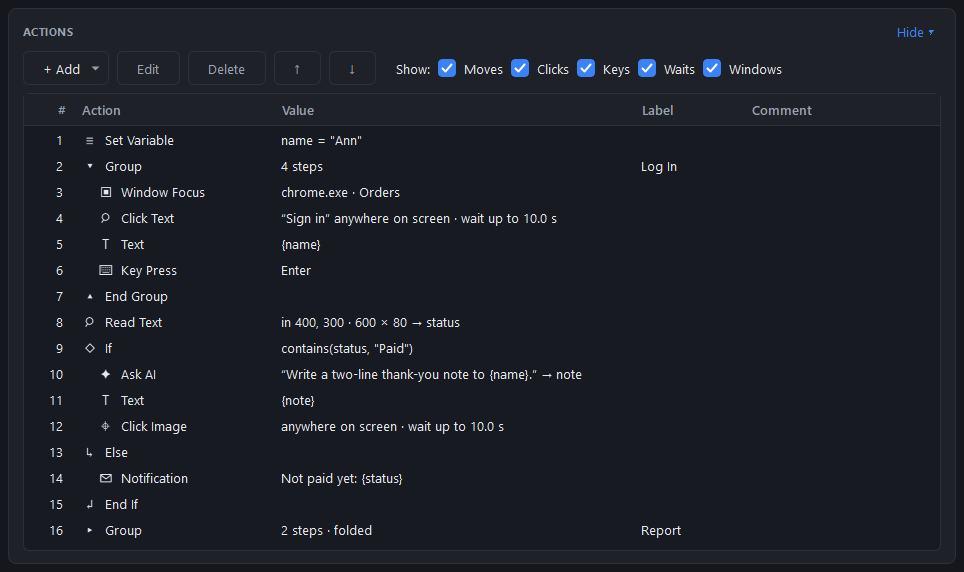
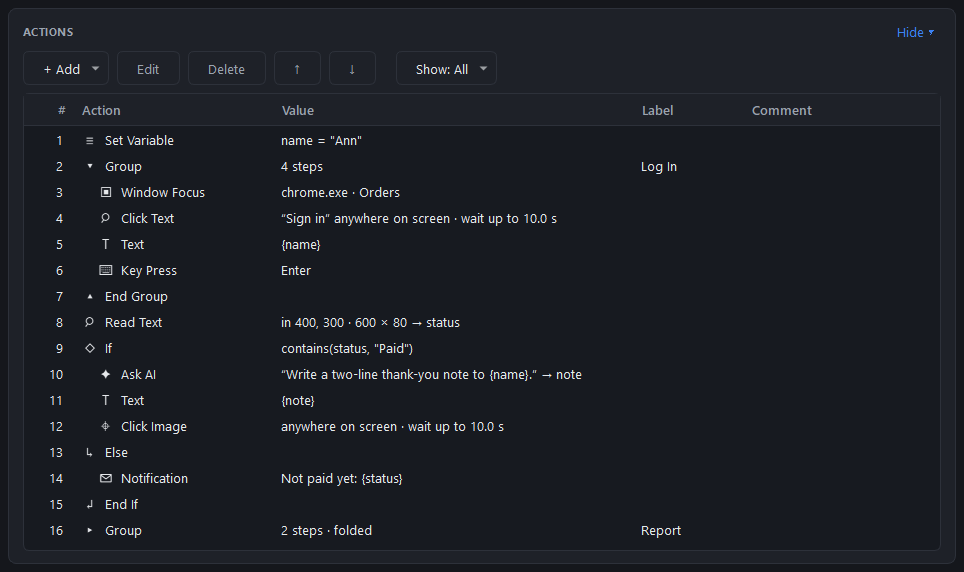
Show: one drop-down instead of five check boxes, so the window can be narrower (#19)
The menu stays open while kinds of steps are ticked on and off, and has Show All. The button says what is shown (Show: All, Show: Clicks, Keys, Show: 3 of 5, Show: None). The window's smallest width goes from 1163 to 877 px in English and from 1328 to 1011 px in Spanish. README: the Show menu picture and the refreshed list pictures.

Changed region(s): [[0.4046, 0.0892, 0.8091, 0.1486]]

diff --git a/src/app/MainWindow.cpp b/src/app/MainWindow.cpp
@@ -33,8 +33,11 @@
 #include <QJsonDocument>
 #include <QJsonObject>
 #include <QKeySequenceEdit>
+#include <QKeyEvent>
 #include <QLabel>
+#include <QMenu>
 #include <QMenuBar>
+#include <QMouseEvent>
 #include <QMessageBox>
 #include <QMimeData>
 #include <QNetworkAccessManager>
@@ -141,6 +144,29 @@ QToolButton* toolButton(const QString& text, const QString& tip)
     b->setToolTip(tip);
     return b;
 }
+
+// A menu of check marks that stays open when one is clicked (or toggled with Space or Enter), so several can be
+// changed in one go. Other items close it as usual.
+class StayOpenMenu : public QMenu
+{
+public:
+    using QMenu::QMenu;
+
+protected:
+    void mouseReleaseEvent(QMouseEvent* e) override
+    {
+        QAction* a = actionAt(e->position().toPoint());
+        if (a && a->isCheckable() && a->isEnabled()) { a->trigger(); return; }
+        QMenu::mouseReleaseEvent(e);
+    }
+    void keyPressEvent(QKeyEvent* e) override
+    {
+        QAction* a = activeAction();
+        const bool toggleKey = e->key() == Qt::Key_Space || e->key() == Qt::Key_Return || e->key() == Qt::Key_Enter;
+        if (toggleKey && a && a->isCheckable() && a->isEnabled()) { a->trigger(); return; }
+        QMenu::keyPressEvent(e);
+    }
+};
 
 QLabel* muted(const QString& text)
 {
@@ -864,7 +890,7 @@ void MainWindow::buildUi()
         {m_mergeTyping, "mergeTyping"}, {m_shortestPause, "shortestPause"}, {m_hideRec, "hideRec"},
         {m_hkRecord, "hkRecord"}, {m_hkPlay, "hkPlay"}, {m_hkStop, "hkStop"}, {m_hkError, "hkError"},
         {m_hkNewRec, "hkNewRec"}, {m_hkPlayFrom, "hkPlayFrom"}, {m_hkPlaySel, "hkPlaySel"}, {m_hkCapture, "hkCapture"},
-        {m_table, "table"}, {m_log, "log"}, {m_pill, "pill"}, {m_fileLabel, "fileLabel"}};
+        {m_table, "table"}, {m_showBtn, "showFilter"}, {m_log, "log"}, {m_pill, "pill"}, {m_fileLabel, "fileLabel"}};
     for (const auto& [o, id] : ids) o->setProperty("testId", QString::fromLatin1(id));
     for (auto it = m_filters.cbegin(); it != m_filters.cend(); ++it) it.value()->setProperty("testId", QStringLiteral("filter_") + it.key());
     for (auto it = m_cards.cbegin(); it != m_cards.cend(); ++it) it.value().toggle->setProperty("testId", QStringLiteral("fold_") + it.key());
@@ -1186,20 +1212,32 @@ QWidget* MainWindow::buildActionsCard()
     m_downBtn = toolButton(QStringLiteral("↓"), T("Move down (Alt+Down)"));
     for (QToolButton* t : {m_addBtn, m_editBtn, m_deleteBtn, m_upBtn, m_downBtn}) bar->addWidget(t);
     bar->addSpacing(12);
-    bar->addWidget(new QLabel(T("Show:")));
+    // One drop-down instead of five check boxes, so the window can be narrower. Its menu stays open while
+    // kinds are ticked on and off.
+    m_showBtn = toolButton(QString(), T("Choose which kinds of steps the list shows. Hidden steps still play."));
+    m_showBtn->setPopupMode(QToolButton::InstantPopup);
+    auto* showMenu = new StayOpenMenu(m_showBtn);
     const QList<QPair<QString, QString>> filters = {{QStringLiteral("moves"), T("Moves", "filter")},
                                                     {QStringLiteral("clicks"), T("Clicks")},
                                                     {QStringLiteral("keys"), T("Keys")},
                                                     {QStringLiteral("waits"), T("Waits")},
                                                     {QStringLiteral("windows"), T("Windows", "filter")}};
     for (const auto& [key, text] : filters) {
-        auto* c = new QCheckBox(text);
-        c->setChecked(true);
-        c->setToolTip(T("Hidden steps still play."));
-        m_filters.insert(key, c);
-        bar->addWidget(c);
-        connect(c, &QCheckBox::toggled, this, [this] { applyFilter(); });
+        QAction* a = showMenu->addAction(text);
+        a->setCheckable(true);
+        a->setChecked(true);
+        m_filters.insert(key, a);
+        m_filterOrder.append(a);
+        connect(a, &QAction::toggled, this, [this] { applyFilter(); updateShowButton(); });
     }
+    showMenu->addSeparator();
+    QAction* all = showMenu->addAction(T("Show All"), this, [this] {
+        for (QAction* a : std::as_const(m_filterOrder)) a->setChecked(true);
+    });
+    all->setProperty("testId", QStringLiteral("filter_all"));
+    m_showBtn->setMenu(showMenu);
+    bar->addWidget(m_showBtn);
+    updateShowButton();
     bar->addStretch();
     b->addLayout(bar);
 
@@ -2107,6 +2145,23 @@ void MainWindow::applyFilter()
             hiddenSelected.select(m_model.index(r, 0), m_model.index(r, ActionModel::ColCount - 1));
     }
     if (!hiddenSelected.isEmpty()) m_table->selectionModel()->select(hiddenSelected, QItemSelectionModel::Deselect);
+}
+
+void MainWindow::updateShowButton()
+{
+    QStringList shown;
+    for (const QAction* a : std::as_const(m_filterOrder)) if (a->isChecked()) shown << a->text();
+    const int all = int(m_filterOrder.size());
+    QString text;
+    if (shown.size() == all) text = T("Show: All");
+    else if (shown.isEmpty()) text = T("Show: None");
+    else if (shown.size() <= 2) text = T("Show: %1").arg(shown.join(QStringLiteral(", ")));
+    else text = T("Show: %1 of %2").arg(shown.size()).arg(all);
+    m_showBtn->setText(text);
+    if (QMenu* m = m_showBtn->menu()) {
+        const QList<QAction*> acts = m->actions();
+        if (!acts.isEmpty()) acts.last()->setEnabled(shown.size() != all);   // Show All
+    }
 }
 
 // ------------------------------------------------------------------------------------------------ record / play

diff --git a/src/app/MainWindow.h b/src/app/MainWindow.h
@@ -149,6 +149,7 @@ private:
     void exportCsv();
     void copyCommandLine();
     void applyFilter();
+    void updateShowButton();   // "Show: All", "Show: Clicks, Keys", "Show: 3 of 5"...
     void selectRows(int first, int last);
     QStringList labels() const;
 
@@ -238,7 +239,9 @@ private:
     QPlainTextEdit* m_log = nullptr;
     QPushButton *m_recordBtn = nullptr, *m_playBtn = nullptr, *m_pauseBtn = nullptr, *m_stopBtn = nullptr, *m_playSelBtn = nullptr;
     QToolButton *m_addBtn = nullptr, *m_editBtn = nullptr, *m_deleteBtn = nullptr, *m_upBtn = nullptr, *m_downBtn = nullptr;
-    QHash<QString, QCheckBox*> m_filters;
+    QToolButton* m_showBtn = nullptr;      // the Show drop-down above the step list
+    QList<QAction*> m_filterOrder;          // its kinds of step, in menu order
+    QHash<QString, QAction*> m_filters;     // the same, by key ("moves", "clicks"...)
     QSpinBox *m_speed = nullptr, *m_repeatTimes = nullptr, *m_repeatSecs = nullptr, *m_countdownSecs = nullptr;
     QRadioButton *m_rTimes = nullptr, *m_rSecs = nullptr, *m_rForever = nullptr;
     QComboBox *m_pathStyle = nullptr, *m_typing = nullptr;

diff --git a/README.md b/README.md
@@ -105,8 +105,11 @@ there.
 **Use Mouse Position…** fills in the position from the screen. While an editor is open, **F8** captures the spot
 under the pointer (and its color, for Wait for Pixel Color).
 
-**Show:** above the list hides kinds of steps (hidden steps still play). The selected step's position is marked
+The **Show** drop-down above the list hides kinds of steps: moves, clicks, keys, waits, windows (hidden steps
+still play). Its menu stays open while you tick several. The selected step's position is marked
 on the screen with a red ring (**View ▸ Mark Selected Step on Screen**).
+
+<img src=".github/readme/menu-show.png" alt="The Show drop-down with Moves and Waits unticked: Show: 3 of 5" width="155">
 
 <br clear="right">
 
